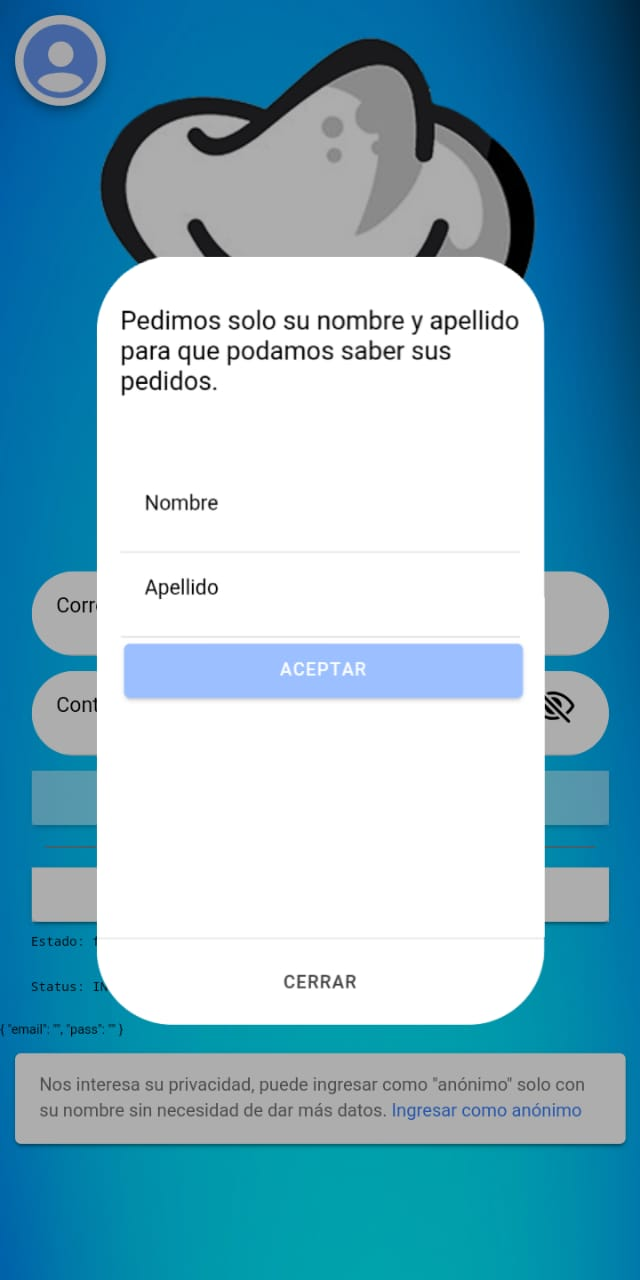
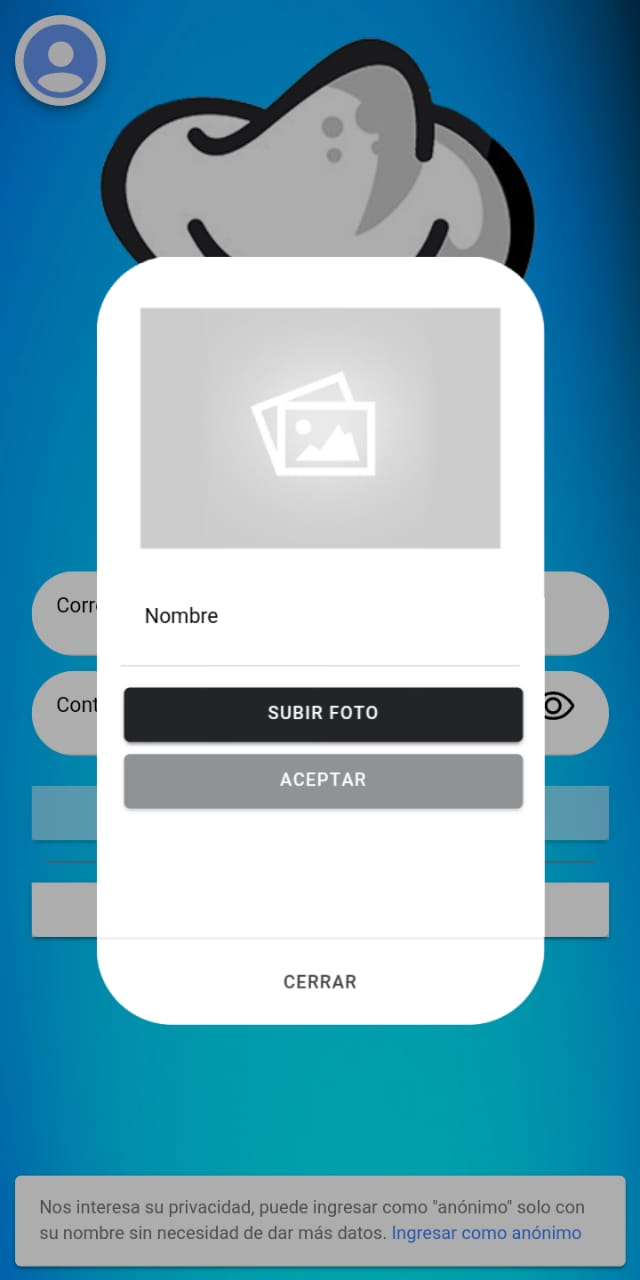
archivos readme

diff --git a/LaComanda/src/app/models/cards.ts b/LaComanda/src/app/models/cards.ts
@@ -4,7 +4,7 @@ export const cards = [{
     cliente: [
         { title: 'BIENVENIDO A COMSERVY', photo: '../../../assets/image/plato.png', message: 'Gracias por elegirnos una vez más', action: '' },
         { title: 'BUSCAR MESA', photo: '../../../assets/image/qr-home.png', message: 'Escanea el código QR de la entrada para anotarte en la lista de espera o busca tu mesa si ya tenias una reserva.', action: 'qr' },
-        { title: 'TU MESA', photo: '', message: 'Escanea el código QR de tu mesa para acceder al menu.', action: 'mesa'},
+        { title: 'TU MESA', photo: '../../../assets/image/menu.png', message: 'Escanea el código QR de tu mesa para acceder al menu.', action: 'mesa'},
         { title: 'RESERVA', photo: '../../../assets/image/calendario.png', message: 'Reserva una mesa cuando quieras.', action: 'reserva' },
         { title: 'DELIVERY', photo: '../../../assets/image/delivery.png', message: 'Pedí tu comida de donde quieras que estes.', action: 'reserva' },
         { title: 'ENCUESTA', photo: '../../../assets/image/encuesta.png', message: 'Nos interesa tu opinion.', action: 'encuestaCliente' },
@@ -12,7 +12,7 @@ export const cards = [{
     ],
     anonimo: [
         { title: 'BIENVENIDO A COMSERVY', photo: '../../../assets/image/plato.png', message: 'Gracias por elegirnos una vez más', action: '' },
-        { title: 'BUSCAR MESA', photo: '../../../assets/image/qr-home.png', message: 'Escanea el código QR de la entrada para anotarte en la lista de espera o busca tu mesa si ya tenias una reserva.', action: 'qr' }
+        { title: 'BUSCAR MESA', photo: '../../../assets/image/qr-home.png', message: 'Escanea el código QR de la entrada para anotarte en la lista de espera.', action: 'qr' }
     ],
     duenio: [
         { title: 'ALTAS', photo: '../../../assets/image/add.png', message: 'Agrega nuevos dueños/supervisores, empleados o mesas.', action: 'altas' },
@@ -22,10 +22,10 @@ export const cards = [{
         { title: 'MI PERFIL', photo: '../../../assets/image/supervisor.png', message: '', action: 'perfil' }
     ],
     supervisor: [
-        { title: 'ALTAS', photo: '../../../assets/image/mas.png', message: 'Agrega nuevos dueños/supervisores, empleados o mesas.', action: 'altas'  },
+        { title: 'ALTAS', photo: '../../../assets/image/add.png', message: 'Agrega nuevos dueños/supervisores, empleados o mesas.', action: 'altas'  },
         { title: 'APROBACIONES PENDIENTES', photo: '../../../assets/image/user-add.png', message: 'Lista de clientes registrados sin ser aprobados.', action: 'checkReserva' },
         { title: 'RESERVAS', photo: '../../../assets/image/calendario.png', message: 'Confirma reservas hechas por los clientes.', action: 'checkReserva' },
-        { title: 'ENCUESTA', photo: '../../../assets/image/listaEspera.png', message: 'Selecciona un empleado o un cliente y llena un formulario con datos referentes a la persona.', action: 'encuestaSupervisor' },
+        { title: 'ENCUESTA', photo: '../../../assets/image/encuesta.png', message: 'Selecciona un empleado o un cliente y llena un formulario con datos referentes a la persona.', action: 'encuestaSupervisor' },
         { title: 'LISTA DE COMANDAS', photo: '../../../assets/image/comanda.png', message: 'Lista de todas las comandas realizadas.', action: 'listaComandas' },
         { title: 'MI PERFIL', photo: '../../../assets/image/supervisor.png', message: '', action: 'perfil' }
     ],
@@ -55,7 +55,7 @@ export const cards = [{
         { title: 'MI PERFIL', photo: '../../../assets/image/bartender.png', message: '', action: 'perfil' }
     ],
     altas: [
-        { title: 'ALTA DUEÑO/SUPERVISOR', photo: '../../../assets/image/supervisor.png', message: 'Agrega nuevos dueños/supervisores, empleados o mesas.', action: 'altaSupervisor'  },
+        { title: 'ALTA DUEÑO/SUPERVISOR', photo: '../../../assets/image/supervisor-add.png', message: 'Agrega nuevos dueños/supervisores, empleados o mesas.', action: 'altaSupervisor'  },
         { title: 'ALTA EMPLEADO', photo: '../../../assets/image/empleado.png', message: 'Lista de clientes registrados sin ser aprobados.', action: 'altaEmpleado' },
         { title: 'ALTA MESA', photo: '../../../assets/image/plato.png', message: '', action: 'altaMesa' }
     ]

diff --git a/LaComanda/src/app/pages/altas/empleado/empleado.page.html b/LaComanda/src/app/pages/altas/empleado/empleado.page.html
@@ -1,10 +1,14 @@
-<app-header title="Alta Empleado"></app-header>
+<app-header title="ALTA EMPLEADO"></app-header>
 
 <ion-content>
 
     <form class="formulario" [formGroup]="forma" (ngSubmit)="altaEmpleado()">
+      
+      <div class="box-form">
+        <p align="center">
+          <img class="img" [src]="viewPic">
+        </p>
 
-    <div class="box-form">
       <ion-button class="btn qr" (click)="escanearQR()" [disabled]="false">
         Escanear QR DNI
       </ion-button> 
@@ -52,14 +56,11 @@
       </ion-select> 
       </ion-item>
 
-      <ion-button class="btn foto found" (click)="cargarFoto()" [class.noFound]="fotoCam" >Foto</ion-button>
-      <ion-button class="btn"  type="submit" [disabled]="forma.invalid || !fotoCam">Guardar</ion-button>
+      <ion-button class="btn foto found" (click)="cargarFoto()" [class.noFound]="fotoCam">Subir Foto</ion-button>
+      <br><br>
+      <ion-button class="btn"  type="submit" [disabled]="forma.invalid || !fotoCam">Aceptar</ion-button>
 
     </div>
     </form>
 
 </ion-content>
-<<<<<<< HEAD
-
-=======
->>>>>>> aac1380... update

diff --git a/LaComanda/src/app/pages/altas/producto/producto.page.html b/LaComanda/src/app/pages/altas/producto/producto.page.html
@@ -12,12 +12,12 @@
          </ion-item>
 
           <ion-item class="item">
-            <ion-label class="label"  position="floating">Descripcion</ion-label>
+            <ion-label class="label"  position="floating">Descripción</ion-label>
             <ion-textarea class="textTarea" rows="4" cols="50" formControlName="descripcion"></ion-textarea>
           </ion-item>
 
           <ion-item class="item">
-            <ion-label class="label"  position="floating">Tiempo Elaboracion</ion-label>
+            <ion-label class="label"  position="floating">Tiempo de elaboracion</ion-label>
             <ion-input type="text" class="input_text" formControlName="timeElaboracion" ></ion-input>
           </ion-item>
       
@@ -67,7 +67,7 @@
 
           </ion-item>
 
-          <ion-button  type="submit" class="btn submit" [disabled]="(forma.invalid || !imagen1 || !imagen2 || !imagen3)" >Guardar</ion-button>
+          <ion-button  type="submit" class="btn submit" [disabled]="(forma.invalid || !imagen1 || !imagen2 || !imagen3)" >Aceptar</ion-button>
       
         </div>
        </form>

diff --git a/LaComanda/src/app/pages/encuestas/empleado/empleado.page.html b/LaComanda/src/app/pages/encuestas/empleado/empleado.page.html
@@ -1,22 +1,27 @@
-<app-header title="Encuesta"></app-header>
+<ion-header>
+  <app-header title="ENCUESTA"></app-header>
+</ion-header>
+<ion-content>
+  <form class="form">
+    
+  </form>
 
-<ion-content padding>
   <div>
     <ion-list-header> </ion-list-header>
 
     <ion-grid>
       <ion-row>
         <ion-col col-12>
-          <ion-label class="lb"
-            >¿Del 1 al 10 que tan satisfecho esta con su puesto?</ion-label
-          >
+          <ion-label class="lb">
+            ¿Del 1 al 10 que tan satisfecho esta con su puesto?
+          </ion-label>
         </ion-col>
       </ion-row>
 
       <ion-row>
         <ion-col col-12>
           <ion-item>
-            <ion-range min="1" max="3" pin="true">
+            <ion-range min="1" max="10" pin="true">
               <ion-icon range-left name="sad"></ion-icon>
               <ion-icon range-right name="happy"></ion-icon>
             </ion-range>

diff --git a/LaComanda/src/app/pages/login/login.page.html b/LaComanda/src/app/pages/login/login.page.html
@@ -14,8 +14,8 @@
       <ion-input *ngIf="!showPasswordText"  type="password" formControlName="pass"></ion-input>
       <ion-input *ngIf="showPasswordText"  type="text" formControlName="pass"></ion-input>
       <button class="eye" slot="end" ion-button icon-only type="button" (click)="showPasswordText = !showPasswordText">
-        <ion-icon *ngIf="showPasswordText" name="eye-outline"> </ion-icon>
-        <ion-icon *ngIf="!showPasswordText" name="eye-off-outline"> </ion-icon>
+        <ion-icon *ngIf="!showPasswordText" name="eye-outline"> </ion-icon>
+        <ion-icon *ngIf="showPasswordText" name="eye-off-outline"> </ion-icon>
       </button>
     </ion-item><br><br>
     <ion-button expand="block" [disabled]="!forma.valid" type="submit">Iniciar Sesión</ion-button><br>

diff --git a/LaComanda/src/app/app-routing.module.ts b/LaComanda/src/app/app-routing.module.ts
@@ -48,15 +48,15 @@ const routes: Routes = [
     loadChildren: () => import('./pages/perfil/perfil.module').then( m => m.PerfilPageModule)
   },
   {
-    path: 'supervisor',
+    path: 'encuesta/supervisor',
     loadChildren: () => import('./pages/encuestas/supervisor/supervisor.module').then( m => m.SupervisorPageModule)
   },
   {
-    path: 'empleado',
+    path: 'encuesta/empleado',
     loadChildren: () => import('./pages/encuestas/empleado/empleado.module').then( m => m.EmpleadoPageModule)
   },
   {
-    path: 'cliente',
+    path: 'encuesta/cliente',
     loadChildren: () => import('./pages/encuestas/cliente/cliente.module').then( m => m.ClientePageModule)
   }
 

diff --git a/LaComanda/src/app/pages/altas/producto/producto.page.ts b/LaComanda/src/app/pages/altas/producto/producto.page.ts
@@ -47,8 +47,8 @@ export class ProductoPage implements OnInit {
     
     this.generarForm();
     this.userPerfil = JSON.parse(localStorage.getItem('userCatch'))['perfil'];
-    this.tipo = this.userPerfil == 'cocinero' ? 'plato' : this.userPerfil == 'bartender' ? 'bebida' : 'no permitida';
-    this.title = 'Alta ' + this.tipo;
+    this.tipo = this.userPerfil == 'cocinero' ? 'PLATO' : this.userPerfil == 'bartender' ? 'BEBIDA' : 'no permitida';
+    this.title = 'ALTA ' + this.tipo;
  
     
     //#region  BORRAR AL FINALIZAR PROYECTO

diff --git a/LaComanda/src/app/pages/encuestas/empleado/empleado.module.ts b/LaComanda/src/app/pages/encuestas/empleado/empleado.module.ts
@@ -7,6 +7,7 @@ import { IonicModule } from '@ionic/angular';
 import { EmpleadoPageRoutingModule } from './empleado-routing.module';
 
 import { EmpleadoPage } from './empleado.page';
+import { HeaderComponent } from 'src/app/components/header/header.component';
 
 @NgModule({
   imports: [
@@ -15,6 +16,6 @@ import { EmpleadoPage } from './empleado.page';
     IonicModule,
     EmpleadoPageRoutingModule
   ],
-  declarations: [EmpleadoPage]
+  declarations: [EmpleadoPage, HeaderComponent]
 })
 export class EmpleadoPageModule {}

diff --git a/LaComanda/src/app/pages/altas/duenio/duenio.page.html b/LaComanda/src/app/pages/altas/duenio/duenio.page.html
@@ -103,14 +103,9 @@
         </ion-row>
 
         <ion-row>          
-          <ion-col size="6">
+          <ion-col size="12">
             <p align="center">
               <ion-button [disabled]="(!tableForm.valid || !image)" type="submit">Aceptar</ion-button>
-            </p>
-          </ion-col>
-          <ion-col size="6">
-            <p align="center">
-              <ion-button (click)="Cancelar()" type="button">Cancelar</ion-button>
             </p>
           </ion-col>
         </ion-row>

diff --git a/LaComanda/src/app/pages/altas/cliente/cliente.page.html b/LaComanda/src/app/pages/altas/cliente/cliente.page.html
@@ -78,14 +78,9 @@
         </ion-row>
 
         <ion-row>          
-          <ion-col size="6">
+          <ion-col size="12">
             <p align="center">
               <ion-button [disabled]="(!tableForm.valid || !image)" type="submit">Aceptar</ion-button>
-            </p>
-          </ion-col>
-          <ion-col size="6">
-            <p align="center">
-              <ion-button (click)="Cancelar()" type="button">Cancelar</ion-button>
             </p>
           </ion-col>
         </ion-row>

diff --git a/LaComanda/src/app/pages/encuestas/empleado/empleado.page.scss b/LaComanda/src/app/pages/encuestas/empleado/empleado.page.scss
@@ -1,8 +1,12 @@
- 
 ion-content {
     --background: none;
     background-size: 100% 100%;
-    background-image: url(../../../../assets/image/fondo-alta.jpg);
+    background-image: url(../../../../assets/splash/fondo.jpg);
+}
+
+.form{
+    --background: none;
+    background-color: white;
 }
 
 page-encuesta-supervisor {

diff --git a/LaComanda/src/app/pages/home/home.page.html b/LaComanda/src/app/pages/home/home.page.html
@@ -1,5 +1,5 @@
 <ion-header [translucent]="true">
-  <app-header (state)="showView = $event" [inshow]="!showView"  title="Inicio" ></app-header>
+  <app-header (state)="showView = $event" [inshow]="!showView"  title="INICIO" ></app-header>
 </ion-header>
   
 
